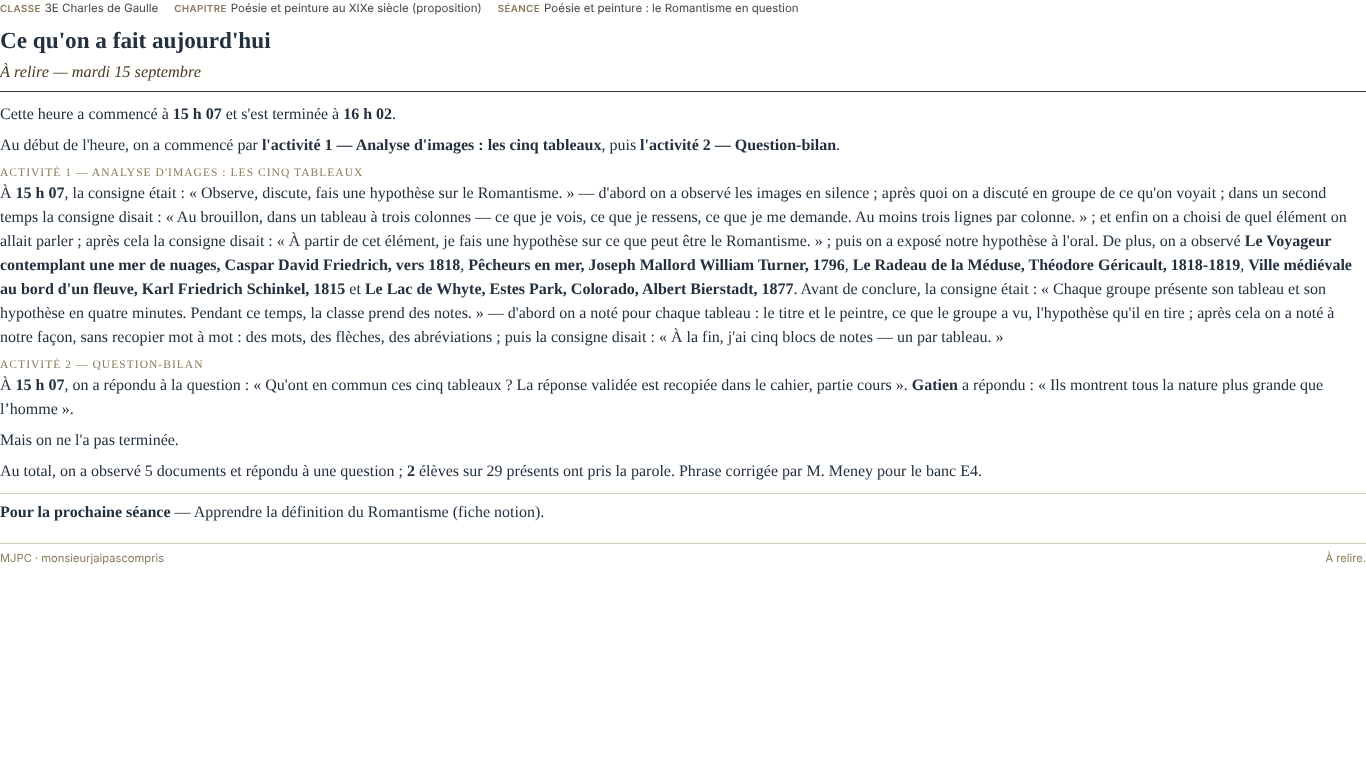
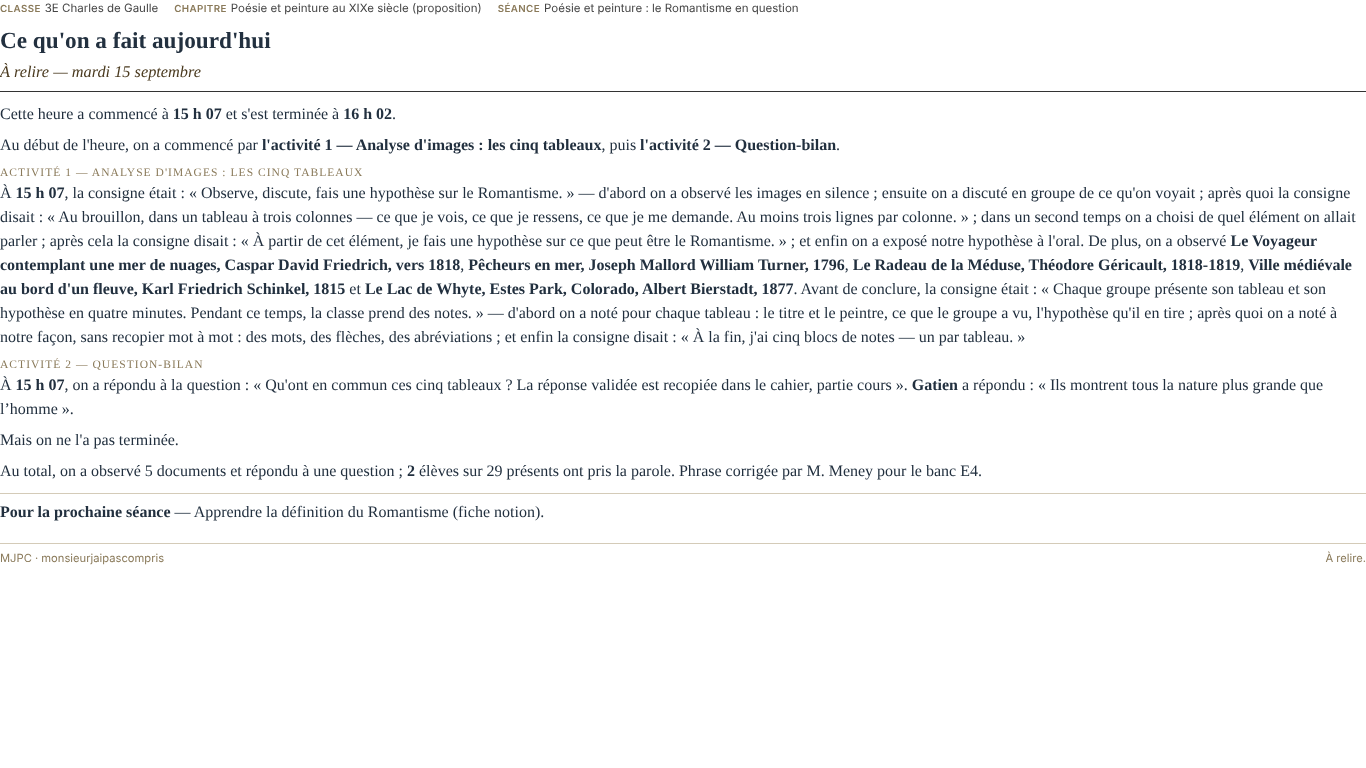
E4 · « et enfin » à la dernière étape racontée ; journal
Claude-Session: https://claude.ai/code/session_01PruitidjmUJZpopKSLyTBG

Changed region(s): [[0.0, 0.25, 0.9839, 0.3438], [0.369, 0.4062, 0.7379, 0.4688], [0.8917, 0.4062, 0.9839, 0.4375]]

diff --git a/LIVRAISONS/INTEGRATION/dr/dr-recit.js b/LIVRAISONS/INTEGRATION/dr/dr-recit.js
@@ -169,7 +169,7 @@ function jeInterieur(t){ /* les « je » restés dans la phrase : « de ce que j
   return String(t).replace(/\b(que|qu')\s*j(?:e\s+|')(me\s+|m')?([a-zà-ÿ]+)/gi, (_, q, pron, v) => { const imp = IMPARFAIT_JE[v.toLowerCase()] || (/e$/.test(v) ? v.replace(/e$/, 'ait') : null); if (!imp) return _; return "qu'on " + (pron ? 'se ' : '') + imp; })
     .replace(/\bj(?:e\s+|')(me\s+|m')?([a-zà-ÿ]+)/gi, (_, pron, v) => { const imp = IMPARFAIT_JE[v.toLowerCase()] || (/e$/.test(v) ? v.replace(/e$/, 'ait') : null); if (!imp) return _; return 'on ' + (pron ? 'se ' : '') + imp; }); }
 const ADVERBES_ETAPES = ["puis ", "ensuite ", "après quoi ", "dans un second temps ", "et enfin ", "après cela "];
-function adverbeEtape(k, graine){ if (k === 0) return "d'abord "; return ADVERBES_ETAPES[(empreinte(graine) + k) % ADVERBES_ETAPES.length]; }
+function adverbeEtape(k, graine, n){ if (k === 0) return "d'abord "; if (n != null && n > 2 && k === n - 1) return 'et enfin '; const l = n != null ? ADVERBES_ETAPES.filter(a => a !== 'et enfin ') : ADVERBES_ETAPES; return l[(empreinte(graine) + k) % l.length]; }   /* (E4 · relecteur 1) « et enfin » seulement à la dernière étape (n donné) */
 function narrativiser(t){ /* une phrase nominale « Une forme fixe : le sonnet. » → « on a vu qu'une forme fixe, c'était le sonnet » */
   const s = String(t).trim().replace(/\.$/, ''); const m = s.match(/^([^:]{2,80}):\s*(.+)$/); if (!m) return null; const tete = m[1].trim(), suite = m[2].trim(); if (/\b(est|sont|a|ont|fait|font)\b/.test(suite)) return "on a vu que " + tete.charAt(0).toLowerCase() + tete.slice(1) + " : " + suite;
   const t0 = tete.charAt(0).toLowerCase() + tete.slice(1); const que = /^[aeiouyàâéèêëîïôûùh]/i.test(t0) ? "on a vu qu'" : "on a vu que "; return que + t0 + ", c'était " + suite; }
@@ -220,7 +220,7 @@ function recitHtml0(fin, h, bornes){ h = h || S.heure; const finHeure = (S.close
         if (b.t === 'image') { nbImages++; phrases.push('on a observé <b>' + esc(b.txt) + '</b>'); return; }
         if (b.t === 'video') { const pos = S.videoPos[e.eid] || 0; const rep = b.reperes.filter(r => r.t <= pos).slice(-1)[0]; if (pos > 0) phrases.push('on a regardé <b>' + esc(b.txt) + '</b>' + (rep ? ' jusqu\'à ' + esc(rep.l) : '')); return; }
         if (b.t === 'consigne') { const brut = (b.txt || '') + ' ' + elsB.map(o => o.x.txt).join(' '); if (/pour (la prochaine|demain|lundi|mardi|mercredi|jeudi|vendredi|le \d)/i.test(brut) || /à (faire|rendre|apprendre|réviser) pour/i.test(brut) || /devoirs?\b/i.test(brut)) return; const s0 = recit(b.txt); if (!s0) return; const et = elsB.map(o => recitEtape(o.x.txt)).filter(Boolean);
-          const bout = et.map((x, kk) => { const x2 = x.replace(/\.$/, ''); return adverbeEtape(kk, e.act + bi) + (x2.indexOf('la consigne était') === 0 ? x2.replace(/^la consigne était : /, 'la consigne disait : ') : x2.charAt(0).toLowerCase() + x2.slice(1)); });
+          const bout = et.map((x, kk) => { const x2 = x.replace(/\.$/, ''); return adverbeEtape(kk, e.act + bi, et.length) + (x2.indexOf('la consigne était') === 0 ? x2.replace(/^la consigne était : /, 'la consigne disait : ') : x2.charAt(0).toLowerCase() + x2.slice(1)); });
           phrases.push(esc(s0) + (bout.length ? ' — ' + bout.map(esc).join(' ; ') : '')); }
         if (b.t === 'fiche') { nbFiches++; /* (E4 · R2, R15) lisait seulement « on a travaillé la fiche X : <première ligne> » — l'ancien moteur (L1289-1312) disait le rappel et les citations */ const rap = dr_recitRappel(b); const cit = dr_recitCitations(h, di, bi, e); let s2 = rap != null ? 'on a repris la fiche <b>' + esc(b.txt || b.titre || '') + '</b>' + (rap ? ' — ' + esc(rap) : '') : 'on a travaillé la fiche <b>' + esc(b.txt || b.titre || '') + '</b>'; if (rap != null) nbRappels++; const sur = cit.sur.filter(c => !dejaCite[c] && (dejaCite[c] = 1)), cop = cit.cop.filter(c => !dejaCite[c] && (dejaCite[c] = 1)); if (sur.length) s2 += ', où on a surligné ' + sur.slice(0, 3).map(c => '« ' + esc(c) + ' »').join(' ; '); if (cop.length) s2 += '. On a recopié dans le cahier : ' + cop.slice(0, 3).map(c => '« ' + esc(c) + ' »').join(' ; '); if (!sur.length && !cop.length && rap == null && b.el && b.el[0]) s2 += ' : ' + esc(personne(typeof b.el[0] === 'string' ? b.el[0] : (b.el[0].txt || ''))); phrases.push(s2); }
         if (b.t === 'question') { const r = repsJ(h, di, bi).filter(y => y.r); if (!r.length && !S.parts.some(pp => pp.eid === e.eid && pp.heure === h && pp.m !== 'reponse')) { /* (d, Paul 23/09 — 2 · 1.10) une question posée sans réponse d'élève se raconte quand même : la question, et la réponse attendue vue en classe si elle l'a été */ if (vu > 0 || vus[di]) { const q0 = String(b.txt || '').replace(/^Question \d+\s*[—-]\s*/, '').replace(/\s*La réponse validée est recopiée[^.]*\.?/, '').trim(); const att = elsB.filter(o => !o.x.q).map(o => esc(String(o.x.txt).replace(/\.$/, ''))); /* (p8-3c) la question est un élément : ses lignes vues seulement */ nbQuestions++; phrases.push('on a posé la question : « ' + esc(q0.replace(/\.$/, '')) + ' »' + (att.length ? ' ; la réponse attendue vue en classe était : « ' + att.join(' » ; « ') + ' »' : '')); } return; } nbQuestions++; r.forEach(y => { if (y.eleve) eleves[y.eleve] = 1; });

diff --git a/LIVRAISONS/INTEGRATION/E4/JOURNAL.md b/LIVRAISONS/INTEGRATION/E4/JOURNAL.md
@@ -52,3 +52,7 @@
 - **fait** : 15 trouvailles (`E4/relecteurs/R2-pre-E1a.md`) ; corrigées dans mon territoire : la note pour Paul hors du papier et d'ED, l'échéance de chaque heure, les marges d'impression, « La séance » avec ma version, l'impression depuis toutes les faces de la Relecture, pas de récit avant un lancement (garde : banc **P0**), « on a regardé ». Banc : **socle simulé 35 ok · maquette 29 ok · 3 absents · 0 échec**.
 - **pour E2** (ton territoire, vu par le relecteur n°2 sur la maquette) : (2) après la clôture de l'heure 1 puis « Voir la relecture de l'heure 1 », l'heure 2 ne se lance plus et ◀ ▶ écrivent `h:1` dans le journal de l'heure close ; (3) la fin de l'heure 2 s'ouvre à l'étape 7, « sans échéance » coché, « ce qui reste » non décidé ; (5) le travail de l'heure 2 donne à apprendre les notions de l'heure 1 (`S.travail.apprendre` non remis à zéro). Boutons sans infobulle : « Revérifier », « Voir la relecture de l'heure 1 », « Lancer l'heure 2 », « Clore l'heure », « Annuler », `#f-ech`.
 - **relances** : rien. E1-a : absente.
+
+## 09:17 — poussée 10 : « et enfin » à sa place
+- **fait** : `adverbeEtape` ne tire plus « et enfin » au hasard : il vient à la dernière étape racontée (dette 12 du relecteur n°1, en partie ; l'ordre du temps après des sauts reste). Banc maquette : 29 ok · 3 absents.
+- **relances** : rien. E1-a : absente ; personne n'a poussé depuis 07:59 hormis moi.
